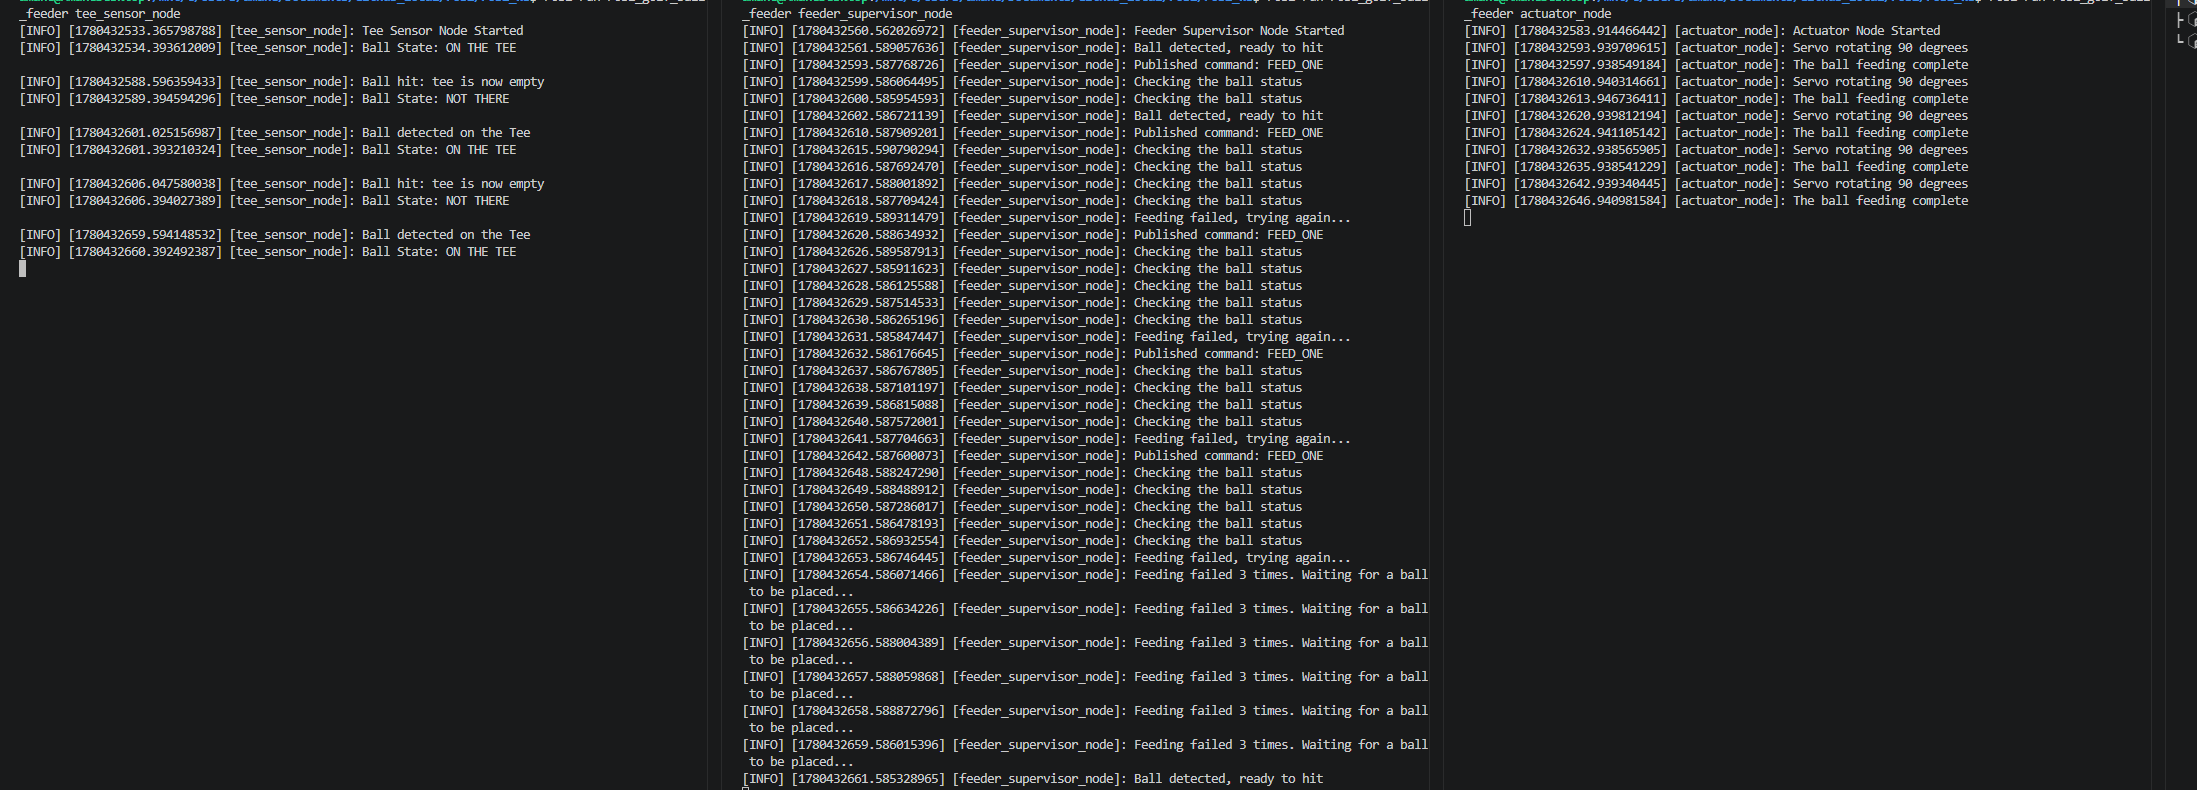
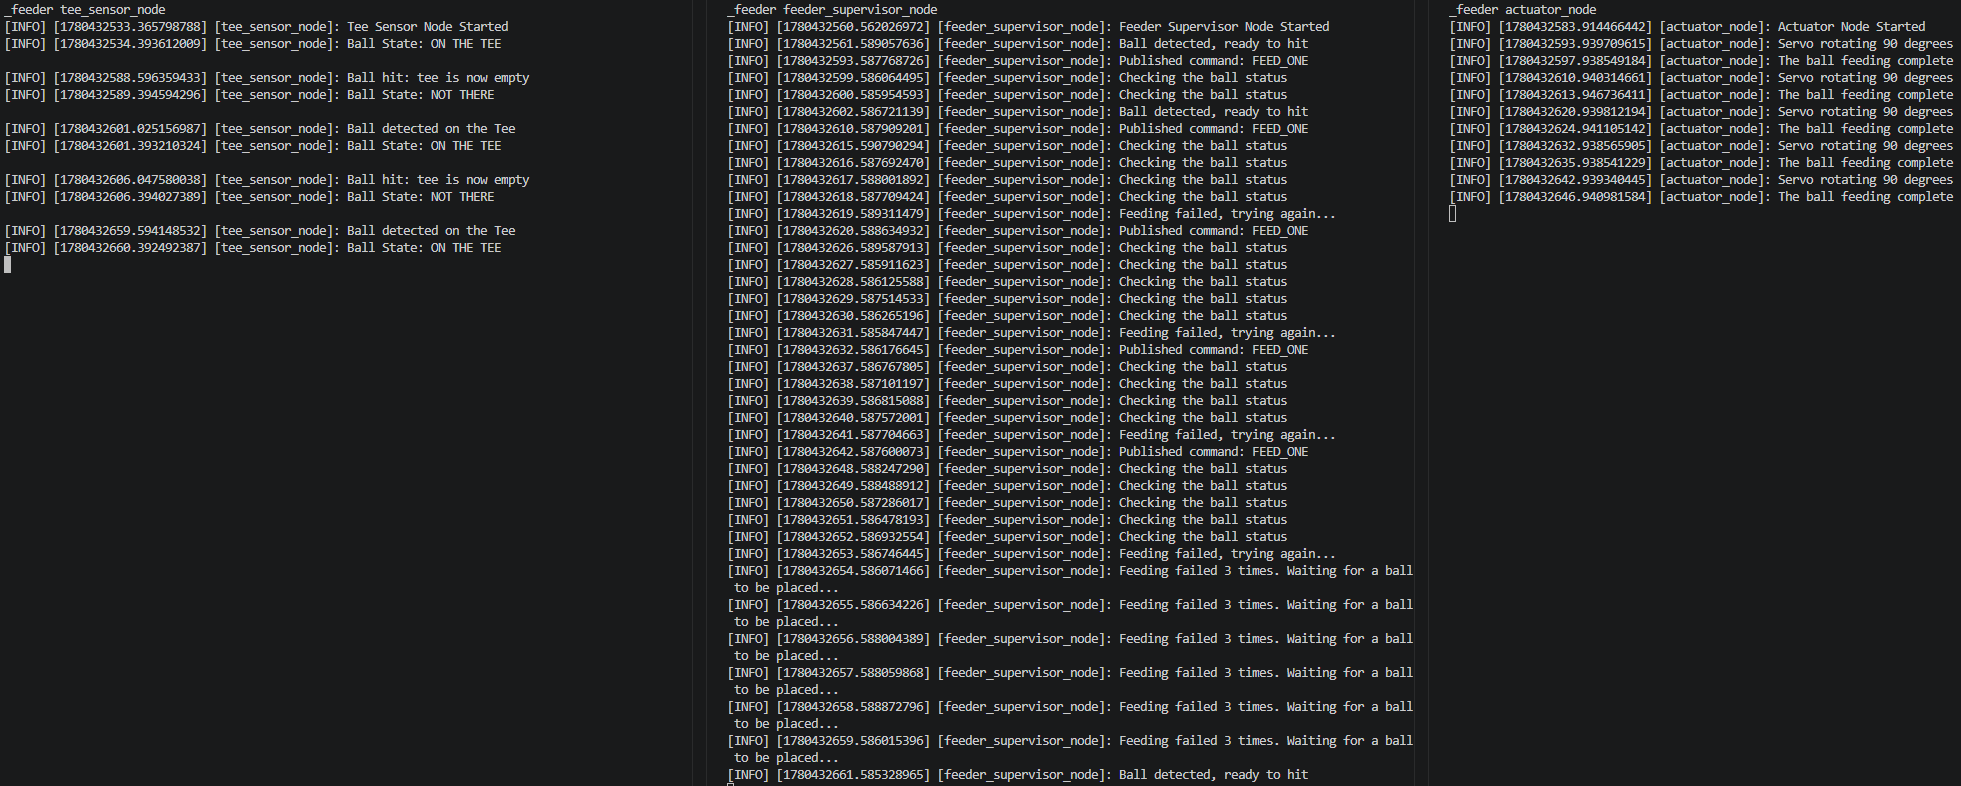
Implement feeder state machine with retry logic

Changed region(s): [[0.3422, 0.0, 1.0, 1.0], [0.0, 0.0, 0.28, 0.3359]]

diff --git a/esp32_firmware/esp32_test/src/main.cpp b/esp32_firmware/esp32_test/src/main.cpp
@@ -1,0 +1,86 @@
+#include <Arduino.h>
+#include <ESP32Servo.h>
+
+const int SWITCH_PIN = 27;
+const int SERVO_PIN = 18;
+
+const int HOME_POS = 0;
+const int FEED_POS = 90;
+
+const unsigned long DEBOUNCE_MS = 50;
+const unsigned long check_time = 5000;
+
+int feed_attempt = 0;
+
+Servo servo1;
+
+enum State
+{
+    BALL_PRESENT,
+    VERIFYING,
+    WAITING_FOR_BALL
+} ;
+State state = BALL_PRESENT;
+unsigned long lastEventTime = 0;
+
+void setup()
+{
+    Serial.begin(115200);
+
+    pinMode(SWITCH_PIN, INPUT_PULLUP);
+
+    servo1.attach(SERVO_PIN);
+    servo1.write(HOME_POS);
+
+    Serial.println("Switch-to-servo test started");
+}
+
+void loop()
+{
+    bool ball_state = (digitalRead(SWITCH_PIN) == LOW);
+    unsigned long now = millis();
+
+    if (!ball_state && state == BALL_PRESENT && (now - lastEventTime > DEBOUNCE_MS))
+    {
+        Serial.println("FEED_ONE");
+
+        servo1.write(FEED_POS);
+        delay(2500);
+
+        servo1.write(HOME_POS);
+
+        state = VERIFYING;
+        lastEventTime = now;
+    }
+
+    else if (state == VERIFYING && (now - lastEventTime > check_time)) {
+        lastEventTime = now;
+
+        if (ball_state) {
+            Serial.println("Feeding Complete");
+            state = BALL_PRESENT;
+            feed_attempt = 0;
+        }
+
+        else if (feed_attempt < 2){
+            Serial.println("Feeding failed, try again.");
+            state = BALL_PRESENT;
+            feed_attempt++;
+        } 
+
+        else {
+            Serial.println("Failed to feed, please placed the ball manually.");
+            lastEventTime = now;
+            state = WAITING_FOR_BALL;
+        }
+
+    } 
+    
+    if (state == WAITING_FOR_BALL && ball_state) {
+        Serial.println("Ball manually placed on the tee, thank you");
+        state = BALL_PRESENT;
+        feed_attempt = 0;
+        lastEventTime = now;
+    }
+
+}

diff --git a/README.md b/README.md
@@ -121,4 +121,3 @@ ball removed → supervisor detects absence → feed command issued → actuator
 - Integrate real hardware (load cell + servo motor)
 - Replace String messages with custom ROS2 message types
 - Add visualization (RViz or state topic)
-- Convert actuator node to C++ for performance realism